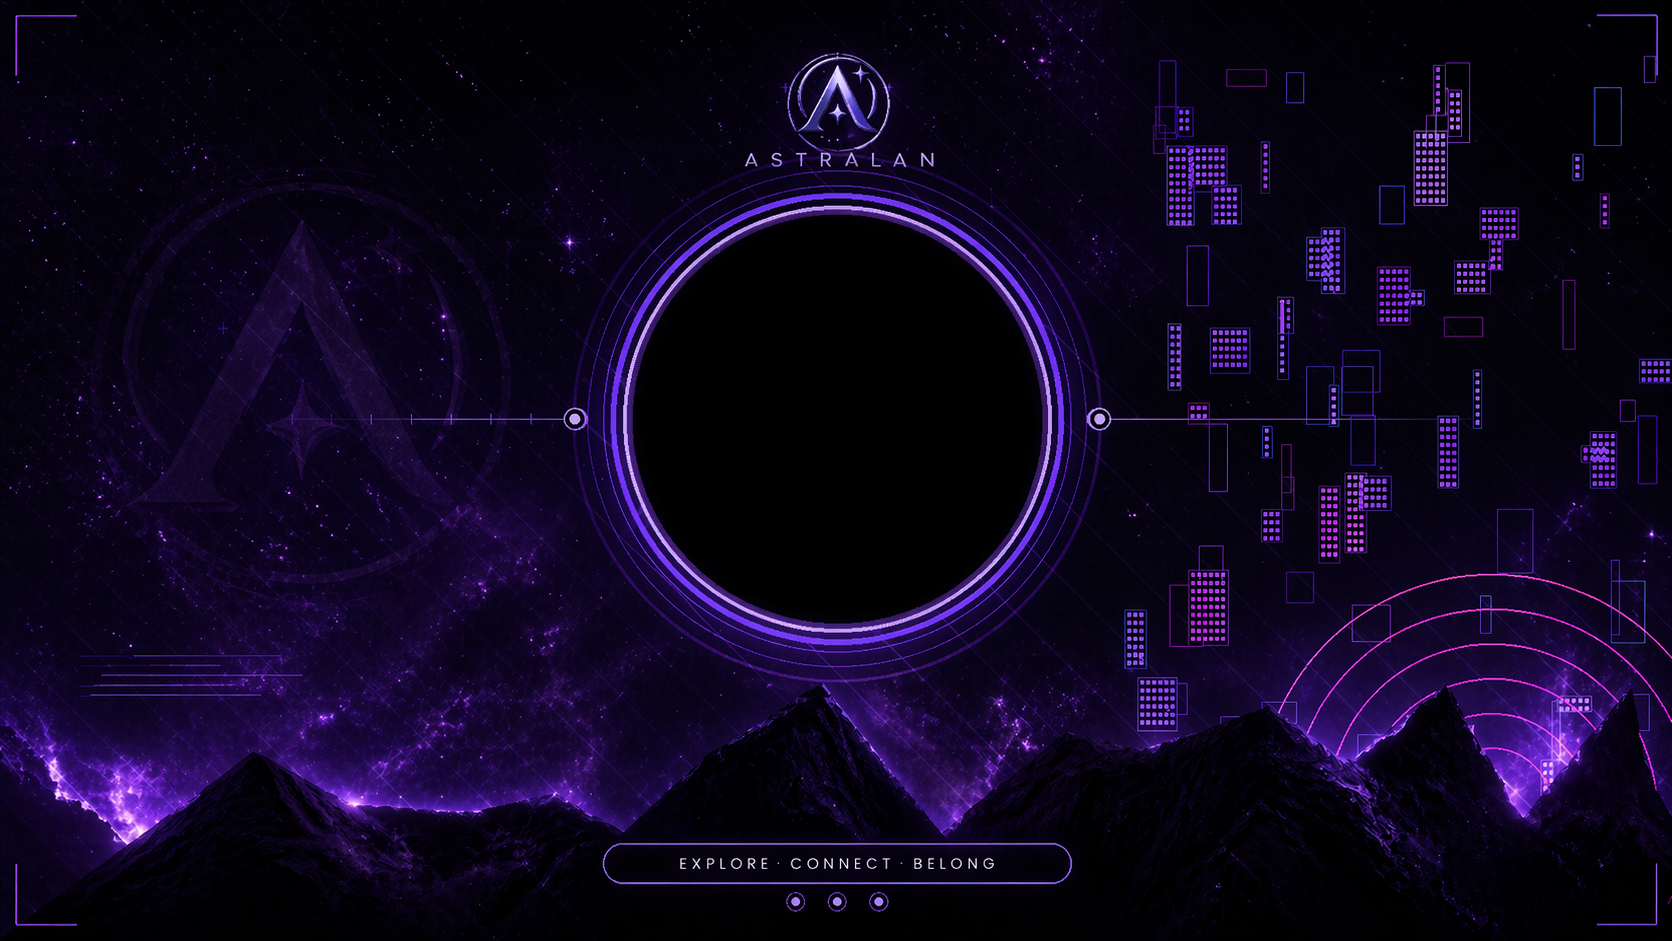
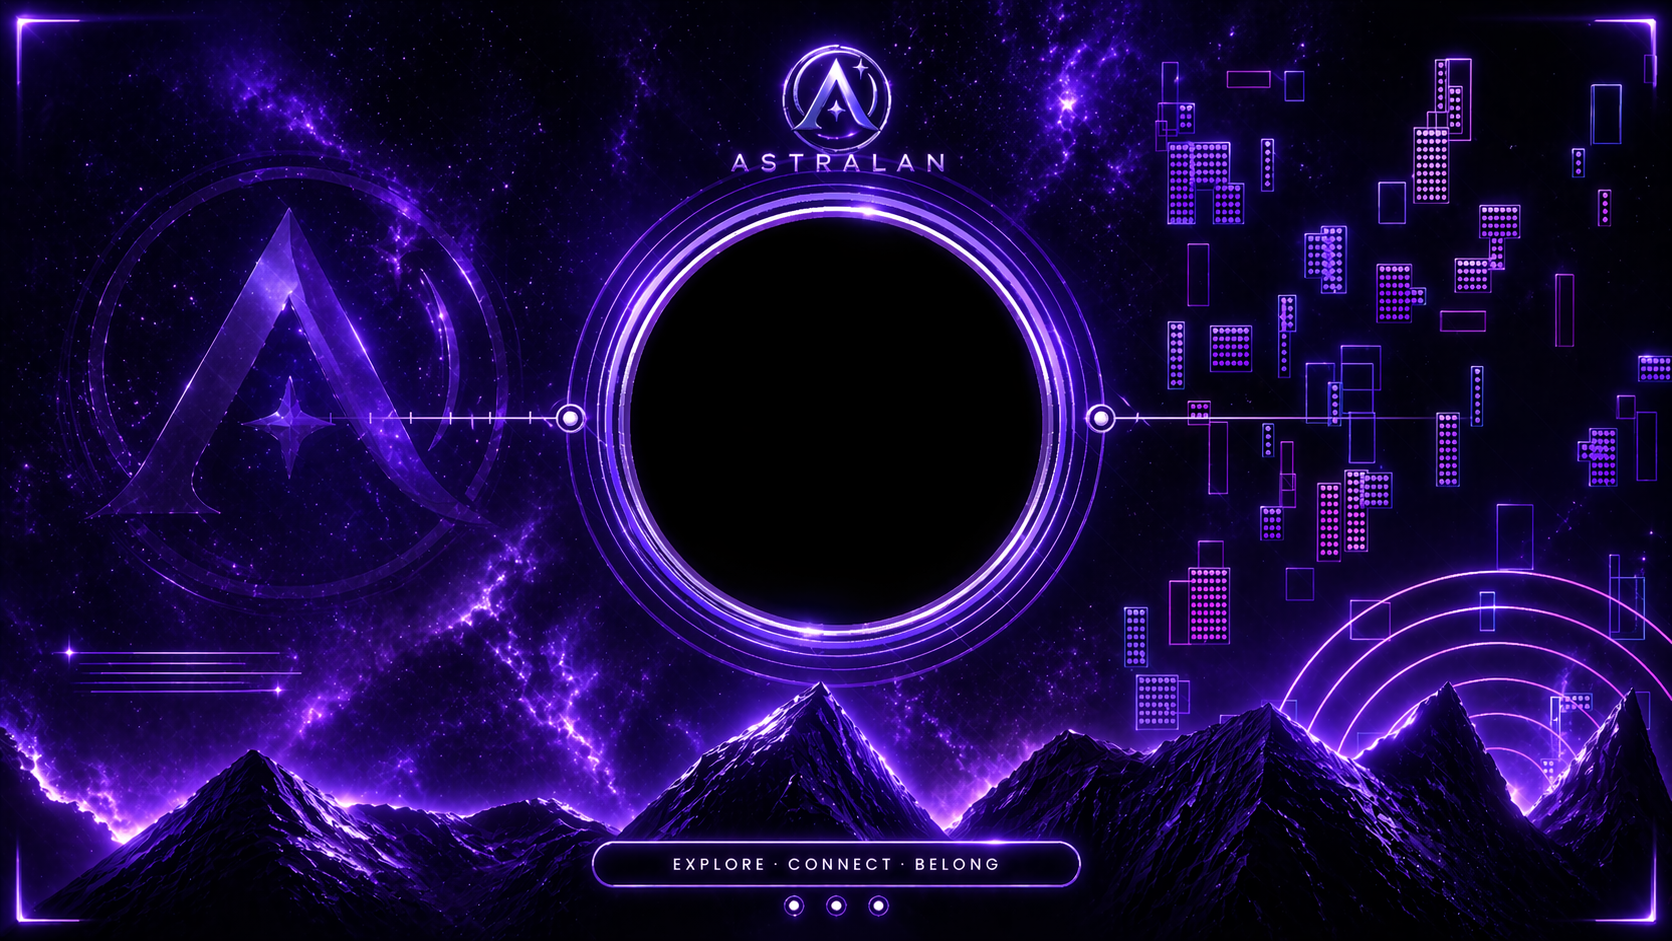
Update command bot

diff --git a/cogs/role.py b/cogs/role.py
@@ -1,32 +1,97 @@
 import discord
 from discord.ext import commands
-from discord import app_commands
 
-class RoleView(discord.ui.View):
+GAME_ROLES = {
+    "Roblox": {"id": 1496849096911229109, "emoji": "🧱"},
+    "Minecraft": {"id": 1496849678640218223, "emoji": "⛏️"},
+    "GTA": {"id": 1496849773389418536, "emoji": "🚗"},
+    "Mobile Legend": {"id": 1497203663276478494, "emoji": "🧙"},
+    "PUBG": {"id": 1496849816893001798, "emoji": "🔫"},
+    "HOK": {"id": 1497203796399620358, "emoji": "⚔️"},
+    "Delta Force": {"id": 1497203904159416360, "emoji": "🎯"},
+    "Valorant": {"id": 1496849865433546792, "emoji": "💥"},
+    "Free Fire": {"id": 1496849913034706964, "emoji": "🔥"},
+    "Efootball": {"id": 1496849953564135424, "emoji": "⚽"},
+    "EA FC": {"id": 1496850065560567808, "emoji": "🏆"}
+}
+
+
+class GameSelect(discord.ui.Select):
+    def __init__(self):
+        options = []
+
+        for game, data in GAME_ROLES.items():
+            options.append(
+                discord.SelectOption(
+                    label=game,
+                    value=str(data["id"]),
+                    emoji=data["emoji"]
+                )
+            )
+
+        super().__init__(
+            placeholder="🎮 Pilih game favorit kamu...",
+            min_values=1,
+            max_values=len(options),
+            options=options
+        )
+
+    async def callback(self, interaction: discord.Interaction):
+        added = []
+        removed = []
+
+        for value in self.values:
+            role = interaction.guild.get_role(int(value))
+
+            if role in interaction.user.roles:
+                await interaction.user.remove_roles(role)
+                removed.append(role.name)
+            else:
+                await interaction.user.add_roles(role)
+                added.append(role.name)
+
+        msg = ""
+
+        if added:
+            msg += "**Diambil:** " + ", ".join(added) + "\n"
+        if removed:
+            msg += "**Dilepas:** " + ", ".join(removed)
+
+        await interaction.response.send_message(msg, ephemeral=True)
+
+
+class GameRoleView(discord.ui.View):
     def __init__(self):
         super().__init__(timeout=None)
+        self.add_item(GameSelect())
 
-    @discord.ui.button(label="🎮 Gamer", style=discord.ButtonStyle.primary)
-    async def gamer(self, interaction: discord.Interaction, button: discord.ui.Button):
-        role = discord.utils.get(interaction.guild.roles, name="Gamer")
-
-        if role in interaction.user.roles:
-            await interaction.user.remove_roles(role)
-            await interaction.response.send_message("Role Gamer dilepas", ephemeral=True)
-        else:
-            await interaction.user.add_roles(role)
-            await interaction.response.send_message("Role Gamer diambil", ephemeral=True)
 
 class Role(commands.Cog):
     def __init__(self, bot):
         self.bot = bot
 
-    @app_commands.command(name="setup_role", description="Setup role button")
-    async def setup_role(self, interaction: discord.Interaction):
-        await interaction.response.send_message(
-            "Pilih role kamu:",
-            view=RoleView()
+    @commands.command(name="setup_role")
+    async def setup_role(self, ctx):
+        embed = discord.Embed(
+            title="Game Roles Panel",
+            description="Pilih game untuk mendapatkan role.\nKlik lagi untuk melepas.",
+            color=discord.Color.blue()
         )
+
+        # FILE LOKAL
+        file = discord.File("banner_roles.png", filename="banner.png")
+        embed.set_image(url="attachment://banner.png")
+
+        embed.add_field(
+            name="Available Games",
+            value="\n".join(
+                [f"{data['emoji']} {game}" for game, data in GAME_ROLES.items()]
+            ),
+            inline=False
+        )
+
+        await ctx.send(embed=embed, view=GameRoleView(), file=file)
+
 
 async def setup(bot):
     await bot.add_cog(Role(bot))

diff --git a/cogs/vibesrole.py b/cogs/vibesrole.py
@@ -1,0 +1,91 @@
+import discord
+from discord.ext import commands
+
+ROLES = {
+    "Gamer": {"id": 1496848106384396382, "emoji": "🎮"},
+    "Creator": {"id": 1496848431212265482, "emoji": "🎨"},
+    "Social": {"id": 1496848571755008201, "emoji": "💬"},
+    "Thinker": {"id": 1496848760154624100, "emoji": "🧠"},
+    "Music Lover": {"id": 1496848872163639366, "emoji": "🎵"},
+    "Movie Addict": {"id": 1497187182799224842, "emoji": "🎬"}
+}
+
+
+class RoleSelect(discord.ui.Select):
+    def __init__(self):
+        options = []
+
+        for name, data in ROLES.items():
+            options.append(
+                discord.SelectOption(
+                    label=name,
+                    value=str(data["id"]),
+                    emoji=data["emoji"]
+                )
+            )
+
+        super().__init__(
+            placeholder="✨ Pilih vibe kamu...",
+            min_values=1,
+            max_values=len(options),
+            options=options
+        )
+
+    async def callback(self, interaction: discord.Interaction):
+        added = []
+        removed = []
+
+        for value in self.values:
+            role = interaction.guild.get_role(int(value))
+
+            if role in interaction.user.roles:
+                await interaction.user.remove_roles(role)
+                removed.append(role.name)
+            else:
+                await interaction.user.add_roles(role)
+                added.append(role.name)
+
+        msg = ""
+
+        if added:
+            msg += "**Diambil:** " + ", ".join(added) + "\n"
+        if removed:
+            msg += "**Dilepas:** " + ", ".join(removed)
+
+        await interaction.response.send_message(msg, ephemeral=True)
+
+
+class RoleView(discord.ui.View):
+    def __init__(self):
+        super().__init__(timeout=None)
+        self.add_item(RoleSelect())
+
+
+class Vibesrole(commands.Cog):
+    def __init__(self, bot):
+        self.bot = bot
+
+    @commands.command(name="setup_vibe")
+    async def setup_vibe(self, ctx):
+        embed = discord.Embed(
+            title="Vibe Roles Panel",
+            description="Pilih role sesuai kepribadian kamu.\nKlik lagi untuk melepas.",
+            color=discord.Color.purple()
+        )
+
+        file = discord.File("banner_vibes.png", filename="vibes.png")
+        embed.set_image(url="attachment://vibes.png")
+
+        embed.add_field(
+            name="Available Roles",
+            value="\n".join(
+                [f"{data['emoji']} {name}" for name, data in ROLES.items()]
+            ),
+            inline=False
+        )
+
+        await ctx.send(embed=embed, view=RoleView(), file=file)
+
+
+async def setup(bot):
+    await bot.add_cog(Vibesrole(bot))

diff --git a/cogs/genderrole.py b/cogs/genderrole.py
@@ -1,0 +1,86 @@
+import discord
+from discord.ext import commands
+
+GENDER_ROLES = {
+    "Nova Girl": {"id": 1496850364446675105, "emoji": "🎀"},
+    "Nova Boy": {"id": 1496850494814163086, "emoji": "💫"}
+}
+
+
+class GenderSelect(discord.ui.Select):
+    def __init__(self):
+        options = []
+
+        for name, data in GENDER_ROLES.items():
+            options.append(
+                discord.SelectOption(
+                    label=name,
+                    value=str(data["id"]),
+                    emoji=data["emoji"]
+                )
+            )
+
+        super().__init__(
+            placeholder="⚧️ Pilih gender role kamu...",
+            min_values=1,
+            max_values=1,  # cuma boleh pilih satu
+            options=options
+        )
+
+    async def callback(self, interaction: discord.Interaction):
+        selected_role_id = int(self.values[0])
+        selected_role = interaction.guild.get_role(selected_role_id)
+
+        removed_roles = []
+
+        # Hapus semua gender role lain dulu
+        for role_data in GENDER_ROLES.values():
+            role = interaction.guild.get_role(role_data["id"])
+            if role in interaction.user.roles and role.id != selected_role_id:
+                await interaction.user.remove_roles(role)
+                removed_roles.append(role.name)
+
+        # Tambahin role baru kalau belum punya
+        if selected_role not in interaction.user.roles:
+            await interaction.user.add_roles(selected_role)
+            msg = f"Role **{selected_role.name}** diambil"
+        else:
+            msg = f"Kamu sudah punya role **{selected_role.name}**"
+
+        await interaction.response.send_message(msg, ephemeral=True)
+
+
+class GenderView(discord.ui.View):
+    def __init__(self):
+        super().__init__(timeout=None)
+        self.add_item(GenderSelect())
+
+
+class GenderRole(commands.Cog):
+    def __init__(self, bot):
+        self.bot = bot
+
+    @commands.command(name="setup_gender")
+    async def setup_gender(self, ctx):
+        embed = discord.Embed(
+            title="Gender Roles Panel",
+            description="Pilih satu gender role.\nMemilih ulang akan mengganti role.",
+            color=discord.Color.pink()
+        )
+
+        file = discord.File("banner_gender.png", filename="gender.png")
+        embed.set_image(url="attachment://gender.png")
+
+        embed.add_field(
+            name="Available Roles",
+            value="\n".join(
+                [f"{data['emoji']} {name}" for name, data in GENDER_ROLES.items()]
+            ),
+            inline=False
+        )
+
+        await ctx.send(embed=embed, view=GenderView(), file=file)
+
+
+async def setup(bot):
+    await bot.add_cog(GenderRole(bot))